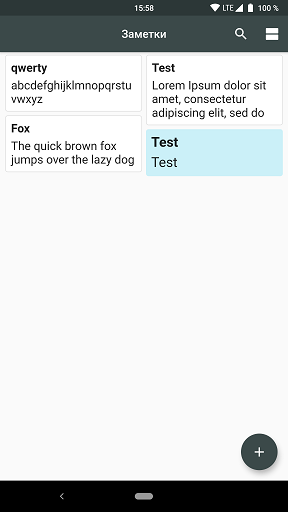
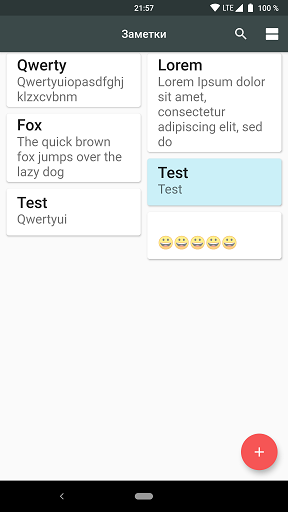
reworked tiles

diff --git a/lib/STiles.dart b/lib/STiles.dart
@@ -14,30 +14,33 @@ class MyStaggeredTile extends StatefulWidget {
 }
 
 class _MyStaggeredTileState extends State<MyStaggeredTile> {
-  String _content;
-  double _fontSize;
   Color tileColor;
   String title;
+  String content;
 
   @override
   Widget build(BuildContext context) {
-    _content = widget.note.content;
-    _fontSize = _determineFontSizeForContent();
+    content = widget.note.content;
     tileColor = widget.note.noteColor;
     title = widget.note.title;
 
-    return GestureDetector(
-      onTap: () => _noteTapped(context),
-      child: Container(
-        decoration: BoxDecoration(
-            border: tileColor == Colors.white
-                ? Border.all(color: CentralStation.borderColor)
-                : null,
-            color: tileColor,
-            borderRadius: BorderRadius.all(Radius.circular(4))),
-        padding: EdgeInsets.all(8),
-        child: constructChild(),
+    return Card(
+      elevation: 2,
+      margin: EdgeInsets.all(2),
+      child: InkWell(
+        splashColor: Color.fromARGB(70, 246, 85, 85),
+        highlightColor: Color.fromARGB(30, 246, 85, 85),
+        onTap: () => _noteTapped(context),
+        child: ListTile(
+          title: title != null
+              ? Text(title,
+                  textScaleFactor: 1.5,
+                  style: TextStyle(fontWeight: FontWeight.w500))
+              : null,
+          subtitle: Text(content, maxLines: 7, textScaleFactor: 1.4),
+        ),
       ),
+      color: tileColor,
     );
   }
 
@@ -45,42 +48,5 @@ class _MyStaggeredTileState extends State<MyStaggeredTile> {
     CentralStation.updateNeeded = false;
     Navigator.push(context,
         MaterialPageRoute(builder: (context) => NotePage(widget.note)));
-  }
-
-  Widget constructChild() {
-    List<Widget> contentsOfTiles = [];
-    if (widget.note.title.length != 0) {
-      contentsOfTiles.add(AutoSizeText(
-        title,
-        style: TextStyle(fontSize: _fontSize, fontWeight: FontWeight.bold),
-        maxLines: widget.note.title.length == 0 ? 1 : 3,
-        textScaleFactor: 1.5,
-      ));
-      contentsOfTiles.add(Divider(
-        color: Colors.transparent,
-        height: 6,
-      ));
-    }
-
-    contentsOfTiles.add(AutoSizeText(
-      _content,
-      style: TextStyle(fontSize: _fontSize),
-      maxLines: 10,
-      textScaleFactor: 1.5,
-    ));
-
-    return Column(
-      crossAxisAlignment: CrossAxisAlignment.start,
-      mainAxisAlignment: MainAxisAlignment.start,
-      children: contentsOfTiles,
-    );
-  }
-
-  double _determineFontSizeForContent() {
-    int charCount = _content.length + widget.note.title.length;
-    double fontSize = 14;
-    if (charCount > 110) fontSize = 10;
-    else if (charCount > 20) fontSize = 12;
-    return fontSize;
   }
 }

diff --git a/lib/HomePage.dart b/lib/HomePage.dart
@@ -6,6 +6,7 @@ import 'Utility.dart';
 import 'dart:async';
 
 enum viewType { List, Staggered }
+
 final routeObserver = RouteObserver<PageRoute>();
 
 class HomePage extends StatefulWidget {
@@ -13,7 +14,7 @@ class HomePage extends StatefulWidget {
   _HomePageState createState() => _HomePageState();
 }
 
-class _HomePageState extends State<HomePage> with RouteAware{
+class _HomePageState extends State<HomePage> with RouteAware {
   var notesViewType;
   final _scaffoldKey = GlobalKey<ScaffoldState>();
   bool _fabVis = true;
@@ -34,7 +35,6 @@ class _HomePageState extends State<HomePage> with RouteAware{
 
   @override
   didPopNext() {
-    // Show back the FAB on transition back ended
     Timer(duration, () {
       setState(() => _fabVis = true);
     });
@@ -54,7 +54,6 @@ class _HomePageState extends State<HomePage> with RouteAware{
             brightness: Brightness.dark,
             actions: _appBarActions(context),
             elevation: 3,
-//            backgroundColor: Color.fromARGB(255, 59, 73, 73),
             centerTitle: true,
             title: Text("Заметки")),
         body: SafeArea(
@@ -72,12 +71,10 @@ class _HomePageState extends State<HomePage> with RouteAware{
         onPressed: () => _newNoteTapped(context),
         key: key,
         child: Icon(Icons.add),
-//          backgroundColor: Color.fromARGB(255, 59, 73, 73),
-//          backgroundColor: Colors.white,
       );
 
   Widget _body() {
-    return Container(child: StaggeredGridPage(notesViewType: notesViewType));
+    return StaggeredGridPage(notesViewType: notesViewType);
   }
 
   void _newNoteTapped(BuildContext ctx) {
@@ -90,9 +87,6 @@ class _HomePageState extends State<HomePage> with RouteAware{
 
     var emptyNote =
         new Note(-1, "", "", DateTime.now(), DateTime.now(), Colors.white);
-//        new Note(-1, "", "", DateTime.now(), DateTime.now(), Color.fromARGB(255, 246, 85, 85));
-//    Navigator.push(
-//        ctx, MaterialPageRoute(builder: (ctx) => NotePage(emptyNote)));
     Navigator.push(
         ctx,
         PageRouteBuilder(

diff --git a/lib/NotePage.dart b/lib/NotePage.dart
@@ -84,12 +84,10 @@ class _NotePageState extends State<NotePage> {
                 style: TextStyle(
                   fontSize: 20,
                   fontWeight: FontWeight.bold,
-//                    color: Colors.blue
                 ),
                 decoration: InputDecoration(
                   labelText: "Заголовок",
                   border: OutlineInputBorder(),
-//                    focusColor: Color.fromARGB(255, 59, 73, 73),
                 ),
                 onChanged: (str) => updateNoteObject(),
                 controller: _titleController,
@@ -103,7 +101,6 @@ class _NotePageState extends State<NotePage> {
                 style: TextStyle(
                   fontSize: 18,
                   fontWeight: FontWeight.bold,
-//                    color: CentralStation.fontColor
                 ),
                 decoration: InputDecoration(
                     labelText: "Текст заметки", border: OutlineInputBorder()),

diff --git a/lib/SView.dart b/lib/SView.dart
@@ -33,7 +33,6 @@ class _StaggeredGridPageState extends State<StaggeredGridPage> {
   @override Widget build(BuildContext context) {
     GlobalKey _stagKey = GlobalKey();
 
-//    print("update needed?: ${CentralStation.updateNeeded}");
     if (CentralStation.updateNeeded) retrieveAllNotesFromDB();
     return Container(
         child: Padding(padding: _paddingForView(context),
@@ -72,10 +71,8 @@ class _StaggeredGridPageState extends State<StaggeredGridPage> {
         .size
         .width;
     double padding;
-    double topBottom = 4;
     padding = width > 500 ? width * 0.05 : 8;
-    return EdgeInsets.only(
-        left: padding, right: padding, top: topBottom, bottom: topBottom);
+    return EdgeInsets.fromLTRB(padding, 0, padding, 0);
   }
 
   MyStaggeredTile _tileGenerator(int i) {
